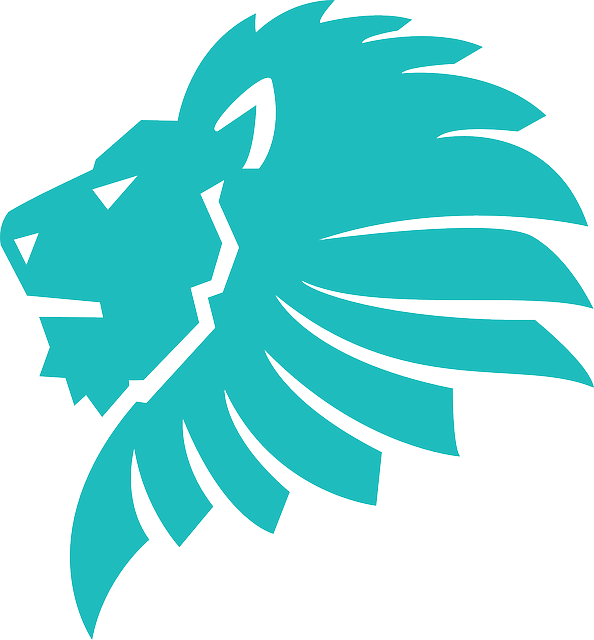
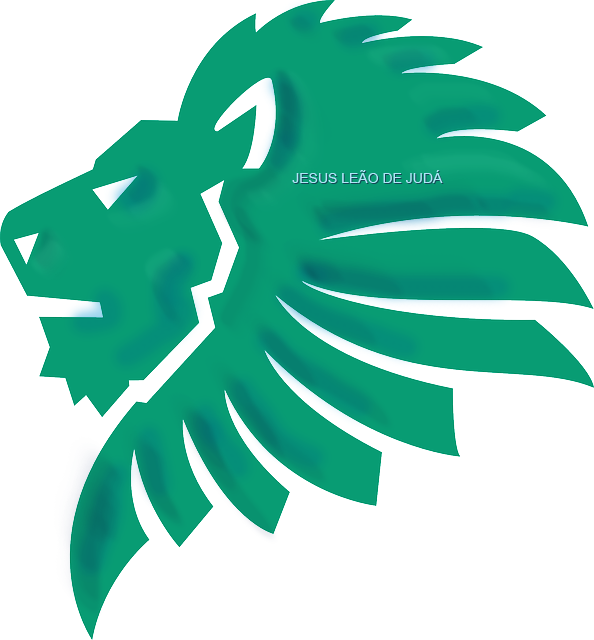
alteri a cor do icone e dei mais espaço no topo

diff --git a/styles.css b/styles.css
@@ -57,6 +57,9 @@ html {
 article, aside, figcaption, figure, footer, header, hgroup, main, nav, section {
   display: block;
 }
+header{
+  margin-top:100px;
+}
 
 body {
   margin: 0;
@@ -562,6 +565,9 @@ pre code {
 @media (min-width: 576px) {
   .container {
     max-width: 540px;
+  }
+  span{
+    color: #FFF;
   }
 }
 @media (min-width: 768px) {
